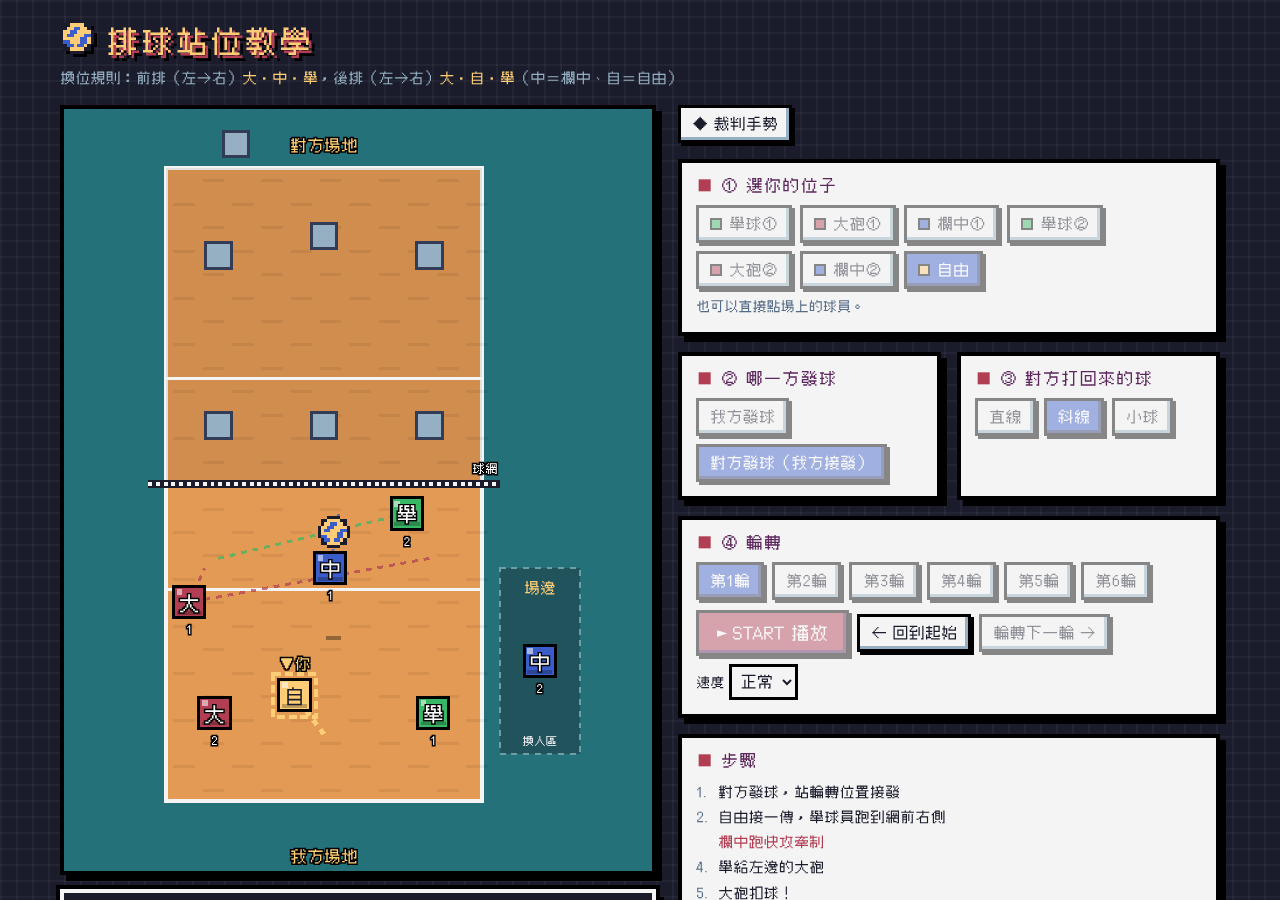
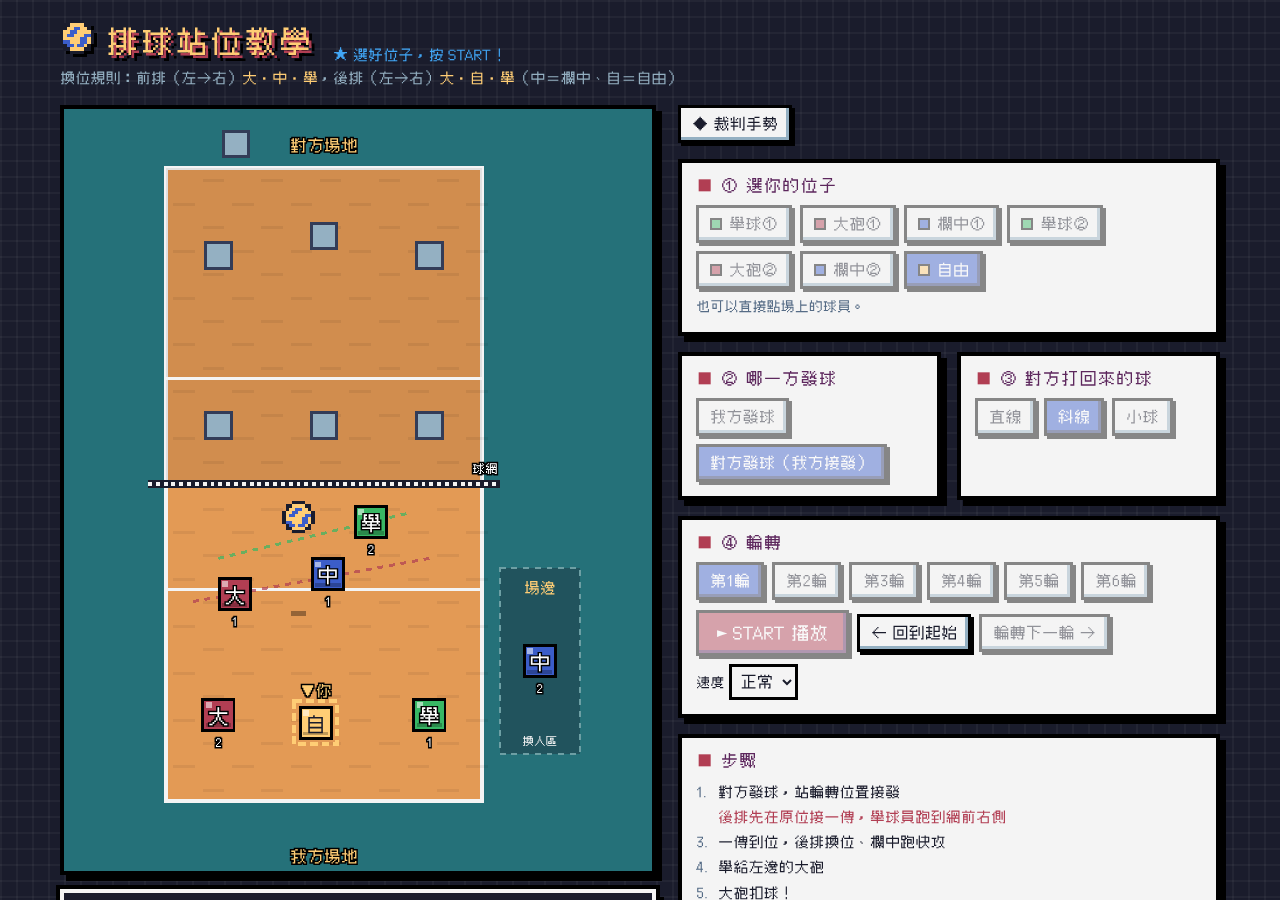
接發球：後排先在原位接一傳，接完再換位
Claude-Session: https://claude.ai/code/session_0111Jq42HSaSmuEgEPrctLA6

diff --git a/index.html b/index.html
@@ -411,8 +411,9 @@ async function playUs(){
 
 async function playThem(){
   const S = front('舉'), OH = front('大'), M = front('中'), passer = LIB;
-  const passSpot = [170,600], setSpot = [285,414];
-  setSteps(['對方發球，站輪轉位置接發','自由接一傳，舉球員跑到網前右側','欄中跑快攻牽制','舉給左邊的大砲','大砲扣球！', ...DEF_STEPS]);
+  const lp = ROT[lu.pos[LIB]];
+  const passSpot = [lp[0] + (lp[0] > 250 ? -20 : lp[0] < 150 ? 20 : -10), lp[1] - 14], setSpot = [285,414];
+  setSteps(['對方發球，站輪轉位置接發','後排先在原位接一傳，舉球員跑到網前右側','一傳到位，後排換位、欄中跑快攻','舉給左邊的大砲','大砲扣球！', ...DEF_STEPS]);
   $('oppServer').setAttribute('visibility','visible');
 
   stepNow(0);
@@ -421,18 +422,17 @@ async function playThem(){
   if (!await wait(900)) return;
 
   stepNow(1);
-  caption(`球過網！${nm(passer)} 接一傳，前排的 ${nm(S)} 跑到網前右側準備舉球。`);
+  caption(`球過網！後排<b>先不換位</b>，在輪轉位置把第一球接好。${nm(passer)} 接一傳，前排的 ${nm(S)} 跑到網前右側準備舉球。`);
   const others = [back('大'), back('舉')];
   const mv1 = [
     {i:passer, to:passSpot, delay:.3}, {i:S, to:setSpot, delay:.35},
-    {i:OH, to:[62,505], delay:.35}, {i:M, to:[205,480], delay:.35},
-    ...others.map(i => ({i, to: baseSpot(i), delay:.4}))
+    {i:OH, to:[62,505], delay:.35}, {i:M, to:[205,480], delay:.35}
   ];
   if (!await tween(1.4, mv1, {from:[110,36], to:passSpot, h:140})) return;
 
   stepNow(2);
-  caption(`一傳到位。${nm(M)} 往網前衝跑快攻，牽制對方攔網。`);
-  if (!await tween(0.9, [{i:M, to:[215,414], delay:.1}, {i:OH, to:[78,470], delay:.3}], {from:passSpot, to:[setSpot[0], setSpot[1]-6], h:110})) return;
+  caption(`一傳到位！<b>接完這球後排才換位</b>：大到左後、自到中後、舉到右後。${nm(M)} 往網前衝跑快攻，牽制對方攔網。`);
+  if (!await tween(1.0, [{i:M, to:[215,414], delay:.1}, {i:OH, to:[78,470], delay:.3}, {i:passer, to: baseSpot(passer), delay:.15}, ...others.map(i => ({i, to: baseSpot(i), delay:.15}))], {from:passSpot, to:[setSpot[0], setSpot[1]-6], h:110})) return;
 
   stepNow(3);
   caption(`${nm(S)} 把球舉給左前的 ${nm(OH)}，大砲助跑起跳。`);

diff --git a/README.md b/README.md
@@ -36,7 +36,7 @@
 
 ### ② 選哪一方發球
 - **我方發球**：發球員走到端線後發球，球一離手，大家換到自己的位置。
-- **對方發球（我方接發）**：發球前照輪轉位置站（不能提早換位）→ 自由接一傳 → 舉球員跑到網前右側 → 欄中跑快攻牽制 → 舉給左邊大砲扣球。
+- **對方發球（我方接發）**：發球前照輪轉位置站（不能提早換位）→ 後排**先在原位接一傳**，前排舉球員跑到網前右側 → 一傳到位後，後排才換到 大・自・舉、欄中跑快攻牽制 → 舉給左邊大砲扣球。
 
 ![接發球動畫](screenshots/receive.png)
 
